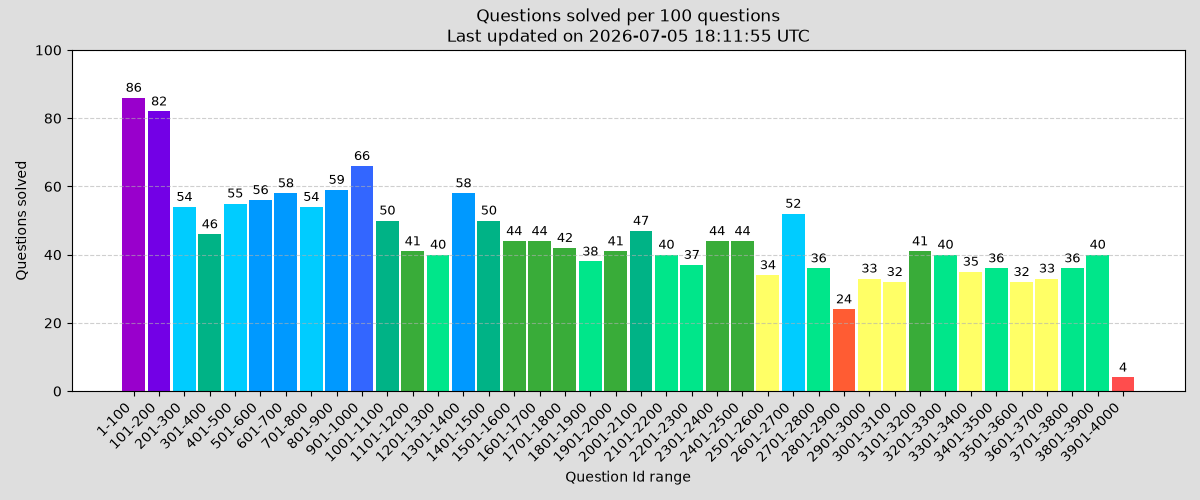
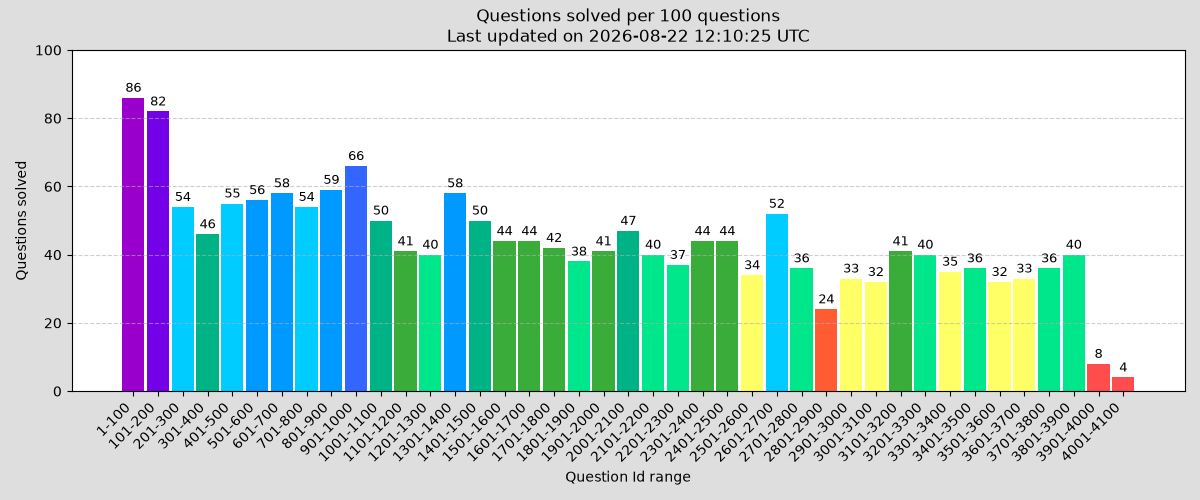
added 3921,3925,3978,3992,4006,4010,4020,4024 cpp, added dir CPP [4001-4500], updated readme

diff --git a/CPP [4001-4500]/4024.nearest-available-drone [1].cpp b/CPP [4001-4500]/4024.nearest-available-drone [1].cpp
@@ -1,0 +1,23 @@
+class Solution {
+public:
+    // T.C.=O(n), S.C.=O(1)
+    int nearestDrone(vector<vector<int>>& drones, vector<int>& target) {
+        const int n = drones.size();
+        int minDist = INT_MAX;
+        int idx = -1;
+        for(int i=0; i<n; i++){
+            const int x = drones[i][0];
+            const int y = drones[i][1];
+            const int r = drones[i][2];
+
+            const int dist = abs(x - target[0]) + abs(y - target[1]);
+
+            if(dist <= r && dist < minDist){
+                minDist = dist;
+                idx = i;
+            }
+        }
+
+        return idx;
+    }
+};

diff --git a/CPP [3501-4000]/3921.score-validator [1].cpp b/CPP [3501-4000]/3921.score-validator [1].cpp
@@ -1,0 +1,20 @@
+class Solution {
+public:
+    // T.C.=O(n), S.C.=O(1)
+    vector<int> scoreValidator(vector<string>& events) {
+        int score = 0, counter = 0;
+        for(const string& event: events){
+            if(event == "W")
+                counter++;
+            else if(event == "WD" || event == "NB")
+                score++;
+            else
+                score += stoi(event);
+            
+            if(counter == 10)
+                break;
+        }
+
+        return {score, counter};
+    }
+};

diff --git a/CPP [4001-4500]/4010.maximize-pair-strength-using-gcd [1].cpp b/CPP [4001-4500]/4010.maximize-pair-strength-using-gcd [1].cpp
@@ -1,0 +1,16 @@
+class Solution {
+public:
+    // T.C.=O(n^2 * log(m)), S.C.=O(1)
+    // m: max val in nums[]
+    long long maxPairStrength(vector<int>& nums) {
+        long long maxStrength = 0;
+        const int n = nums.size();
+        for(int i=0; i<n-1; i++)
+            for(int j=i+1; j<n; j++){
+                long long gcdVal = gcd(nums[i], nums[j]);
+                maxStrength = max(maxStrength, (long long)nums[i]*nums[j]/(gcdVal*gcdVal));
+            }
+
+        return maxStrength;
+    }
+};

diff --git a/CPP [4001-4500]/4006.count-valid-prefixes [1].cpp b/CPP [4001-4500]/4006.count-valid-prefixes [1].cpp
@@ -1,0 +1,19 @@
+class Solution {
+public:
+    // T.C.=O(n), S.C.=O(1)
+    int countValidPrefixes(string s) {
+        int zeros = 0, ones = 0;
+        int count = 0;
+        for(char ch: s){
+            if(ch == '0')
+                zeros++;
+            else // ch == '1'
+                ones++;
+            
+            if(abs(zeros - ones) <= 1)
+                count++;
+        }
+
+        return count;
+    }
+};

diff --git a/CPP [3501-4000]/3992.rearrange-string-to-avoid-character-pair [1].cpp b/CPP [3501-4000]/3992.rearrange-string-to-avoid-character-pair [1].cpp
@@ -1,0 +1,17 @@
+class Solution {
+public:
+    // T.C.=O(n), S.C.=O(1)
+    string rearrangeString(string s, char x, char y) {
+        int countY = 0;
+        for(const char ch: s)
+            if(ch == y)
+                countY++;
+        
+        string t = string(countY, y);
+        for(const char ch: s)
+            if(ch != y)
+                t += ch;
+        
+        return t;
+    }
+};

diff --git a/CPP [3501-4000]/3925.concatenate-array-with-reverse [1].cpp b/CPP [3501-4000]/3925.concatenate-array-with-reverse [1].cpp
@@ -1,0 +1,12 @@
+class Solution {
+public:
+    // T.C.=O(2*n), S.C.=O(1)
+    vector<int> concatWithReverse(vector<int>& nums) {
+        const int n = nums.size();
+        vector<int> nums2(2*n);
+        for(int i=0; i<2*n; i++)  
+            nums2[i] = i < n ? nums[i] : nums[2*n-1-i];
+        
+        return nums2;
+    }
+};

diff --git a/CPP [3501-4000]/3978.unique-middle-element [1].cpp b/CPP [3501-4000]/3978.unique-middle-element [1].cpp
@@ -1,0 +1,12 @@
+class Solution {
+public:
+    // T.C.=O(n), S.C.=O(1)
+    bool isMiddleElementUnique(vector<int>& nums) {
+        const int n = nums.size();
+        for(int i=0; i<n; i++)
+            if(i != n/2 && nums[i] == nums[n/2])
+                return false;
+        
+        return true;
+    }
+};

diff --git a/CPP [3501-4000]/3992.rearrange-string-to-avoid-character-pair [2].cpp b/CPP [3501-4000]/3992.rearrange-string-to-avoid-character-pair [2].cpp
@@ -1,0 +1,12 @@
+class Solution {
+public:
+    // T.C.=O(n*log(n)), S.C.=O(1)
+    string rearrangeString(string s, char x, char y) {
+        if(x > y)
+            sort(s.begin(), s.end());
+        else // x < y
+            sort(s.begin(), s.end(), greater<char>());
+
+        return s;
+    }
+};

diff --git a/CPP [4001-4500]/4020.elevator-requests-i [1].cpp b/CPP [4001-4500]/4020.elevator-requests-i [1].cpp
@@ -1,0 +1,11 @@
+class Solution {
+public:
+    // T.C.=O(n), S.C.=O(1)
+    int elevatorRequests(int n, vector<int>& requests) {
+        int sum = requests[0];
+        for(int i=1; i<requests.size(); i++)
+            sum += abs(requests[i-1] - requests[i]);
+
+        return sum;
+    }
+};

diff --git a/README.md b/README.md
@@ -16,24 +16,24 @@ This repo contains solutions to over **1700** problems from [leetcode.com](https
 -   A list of all algorithms can be found [here](./algorithms/stats/algo-links.md).
 -   Sorting algorithms cheatsheet can be found [here](./algorithms/stats/sorting-algos-cheatsheet.csv).
 -   There are some problems with solutions in multiple languages (like C++ and Javascript).
--   The C++ directory is split into 8 parts (with a range of 500 each): [0001-0500], [0501-1000], ..., [3501-4000]. This is done to overcome the limitation of github webview only allowing a max of 1000 files to be displayed in a directory.
+-   The C++ directory is split into 9 parts (with a range of 500 each): [0001-0500], [0501-1000], ..., [4001-4500]. This is done to overcome the limitation of github webview only allowing a max of 1000 files to be displayed in a directory.
 
 ---
 
 ## Stats
 
 <!-- UPDATE STATS HERE -->
-Last updated at _Sun, 05 Jul 2026 18:11:53 GMT_
+Last updated at _Sat, 22 Aug 2026 12:07:32 GMT_
 
-_Sun Jul 05 2026 23:41:53 GMT+0530 (India Standard Time)_
+_Sat Aug 22 2026 17:37:32 GMT+0530 (India Standard Time)_
 ### Total problems:
 | Accepted | Partially accepted | Out of |
 | --- | --- | --- |
-| 1784 | 103 | 3985 |
+| 1792 | 103 | 3985 |
 ### Total problems solved per language:
 | Language  | Accepted | Partially accepted | Links Table |
 | --- | --- | --- | --- |
-| C++ | 1661 | 103 | [click](stats/link-tables/leetcode-links-cpp.md)
+| C++ | 1669 | 103 | [click](stats/link-tables/leetcode-links-cpp.md)
 | Javascript | 73 | 0 | [click](stats/link-tables/leetcode-links-js.md)
 | MySQL | 85 | 0 | [click](stats/link-tables/leetcode-links-mysql.md)
 <!-- UPDATE STATS HERE -->

diff --git a/stats/link-tables/leetcode-links-cpp.md b/stats/link-tables/leetcode-links-cpp.md
@@ -1661,3 +1661,11 @@
 |3912 | valid elements in an array |[L1](<../../CPP [3501-4000]/3912.valid-elements-in-an-array [1].cpp>) [L2](<../../CPP [3501-4000]/3912.valid-elements-in-an-array [2].cpp>) |general|
 |3913 | sort vowels by frequency |[L1](<../../CPP [3501-4000]/3913.sort-vowels-by-frequency [1].cpp>) |general|
 |3918 | sum of primes between number and its reverse |[L1](<../../CPP [3501-4000]/3918.sum-of-primes-between-number-and-its-reverse [1].cpp>) [L2](<../../CPP [3501-4000]/3918.sum-of-primes-between-number-and-its-reverse [2].cpp>) |general|
+|3921 | score validator |[L1](<../../CPP [3501-4000]/3921.score-validator [1].cpp>) |general|
+|3925 | concatenate array with reverse |[L1](<../../CPP [3501-4000]/3925.concatenate-array-with-reverse [1].cpp>) |general|
+|3978 | unique middle element |[L1](<../../CPP [3501-4000]/3978.unique-middle-element [1].cpp>) |general|
+|3992 | rearrange string to avoid character pair |[L1](<../../CPP [3501-4000]/3992.rearrange-string-to-avoid-character-pair [1].cpp>) [L2](<../../CPP [3501-4000]/3992.rearrange-string-to-avoid-character-pair [2].cpp>) |general|
+|4006 | count valid prefixes |[L1](<../../CPP [4001-4500]/4006.count-valid-prefixes [1].cpp>) |general|
+|4010 | maximize pair strength using gcd |[L1](<../../CPP [4001-4500]/4010.maximize-pair-strength-using-gcd [1].cpp>) |general|
+|4020 | elevator requests i |[L1](<../../CPP [4001-4500]/4020.elevator-requests-i [1].cpp>) |general|
+|4024 | nearest available drone |[L1](<../../CPP [4001-4500]/4024.nearest-available-drone [1].cpp>) |general|
